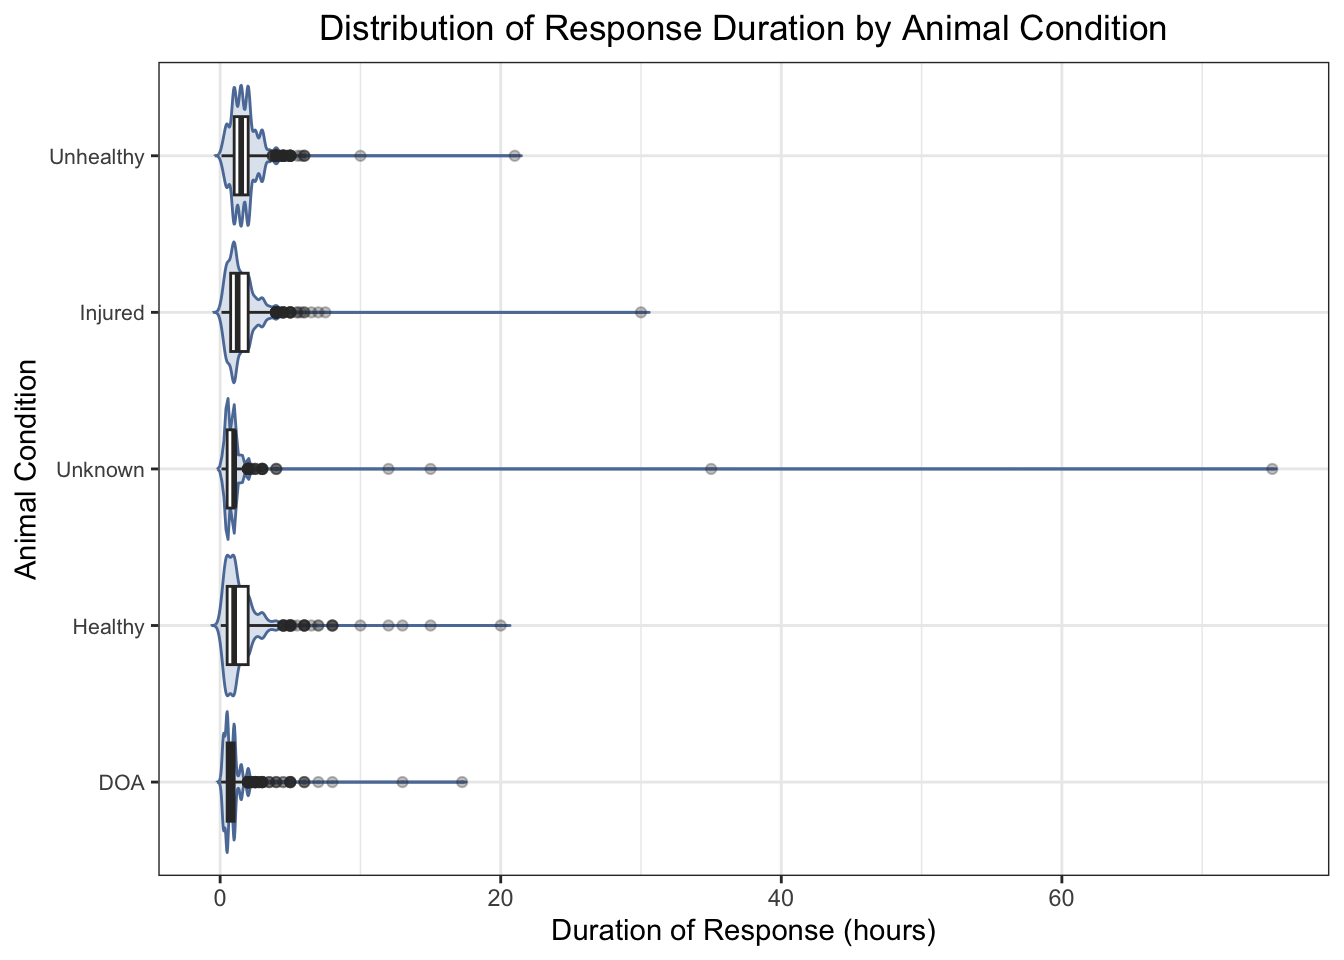
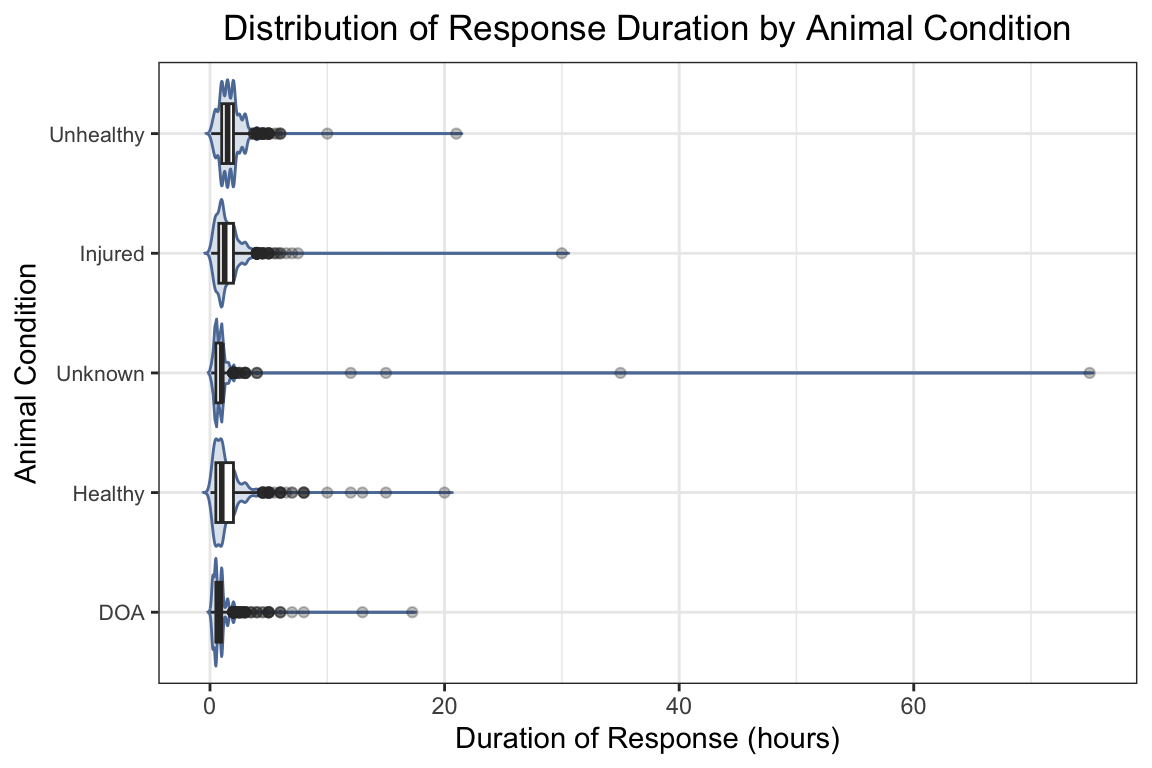
delete some duplicate content.

diff --git a/Project-Report.html b/Project-Report.html
@@ -730,9 +730,7 @@ greater than between-borough variation.</p>
   rename(num_animals = matches(&quot;animals&quot;)) |&gt;
   mutate(
     duration_hours      = as.numeric(duration_of_action),
-    num_animals         = as.numeric(num_animals),
-    final_ranger_action = as.factor(final_ranger_action),
-    animal_condition    = as.factor(animal_condition)
+    num_animals         = as.numeric(num_animals)
   ) |&gt;
   filter(
     !is.na(duration_hours),
@@ -752,31 +750,25 @@ class="section level2">
   arrange(med) |&gt;
   pull(final_ranger_action)
 
-park_model2 &lt;- park_model |&gt;
+park_model_action &lt;- park_model |&gt;
   mutate(final_ranger_action = factor(final_ranger_action, levels = action_order))
 
-ggplot(park_model2, aes(x = final_ranger_action, y = duration_hours)) +
-
-  # Violin plot
-  geom_violin(trim = FALSE, fill = &quot;#BFCDE0&quot;, color = &quot;#5D7CA6&quot;, alpha = 0.5, scale = &quot;width&quot;) +
-
-  # Boxplot
+ggplot(park_model_action, aes(x = final_ranger_action, y = duration_hours)) +
+  geom_violin(trim = FALSE, fill = &quot;#BFCDE0&quot;, color = &quot;#5D7CA6&quot;,
+              alpha = 0.5, scale = &quot;width&quot;) +
   geom_boxplot(width = 0.5, fill = &quot;white&quot;, outlier.alpha = 0.3) +
-
   coord_flip() +
-
   labs(
     title = &quot;Distribution of Response Duration by Final Ranger Action&quot;,
     x = &quot;Final Ranger Action (sorted by median duration)&quot;,
     y = &quot;Duration of Response (hours)&quot;
   ) +
-
   theme_bw() +
   theme(
     plot.title = element_text(hjust = 0.5),
     axis.text.y = element_text(size = 8)
   )</code></pre>
-<p><img src="Project-Report_files/figure-html/unnamed-chunk-8-1.png" width="672" /></p>
+<p><img src="Project-Report_files/figure-html/unnamed-chunk-8-1.png" width="672" style="display: block; margin: auto;" /></p>
 <p>The combined violin-and-boxplot visualization provides insight into
 how long Urban Park Rangers spend responding to different types of
 animal-related incidents.</p>
@@ -829,57 +821,32 @@ rehabilitation partners.</p>
 </div>
 <div id="response-duration-by-animal-condition" class="section level2">
 <h2>Response Duration by Animal Condition</h2>
-<pre class="r"><code>park_model &lt;- park_ranger_new |&gt;
-  rename(num_animals = matches(&quot;animals&quot;)) |&gt;
-  mutate(
-    duration_hours      = as.numeric(duration_of_action),
-    num_animals         = as.numeric(num_animals),
-
-    animal_condition    = as.character(animal_condition),
-    animal_condition    = ifelse(animal_condition == &quot;N/A&quot;, &quot;Unknown&quot;, animal_condition),
-
-    final_ranger_action = as.factor(final_ranger_action),
-    animal_condition    = as.factor(animal_condition)
-  ) |&gt;
-  filter(
-    !is.na(duration_hours),
-    duration_hours &gt; 0,
-    !is.na(final_ranger_action),
-    !is.na(animal_condition),
-    !is.na(num_animals),
-    num_animals &gt;= 0
-  )
-
-park_model2 &lt;- park_model |&gt;
+<pre class="r"><code>park_model_cond &lt;- park_model |&gt;
   mutate(
     animal_condition = fct_reorder(
       animal_condition,
       duration_hours,
       .fun = median,
-      na.rm = TRUE))
+      na.rm = TRUE
+    )
+  )
 
-ggplot(park_model2, aes(x = animal_condition, y = duration_hours)) +
-  # Violin layer
+ggplot(park_model_cond, aes(x = animal_condition, y = duration_hours)) +
   geom_violin(trim = FALSE, fill = &quot;#BFCDE0&quot;, color = &quot;#5D7CA6&quot;,
               alpha = 0.5, scale = &quot;width&quot;) +
-  
-  # Boxplot layer
   geom_boxplot(width = 0.5, fill = &quot;white&quot;, outlier.alpha = 0.3) +
-  
   coord_flip() +
-  
   labs(
     title = &quot;Distribution of Response Duration by Animal Condition&quot;,
     x = &quot;Animal Condition&quot;,
     y = &quot;Duration of Response (hours)&quot;
   ) +
-  
   theme_bw() +
   theme(
     plot.title = element_text(hjust = 0.5),
     axis.text.y = element_text(size = 8)
   )</code></pre>
-<p><img src="Project-Report_files/figure-html/unnamed-chunk-9-1.png" width="672" /></p>
+<p><img src="Project-Report_files/figure-html/unnamed-chunk-9-1.png" width="576" style="display: block; margin: auto;" /></p>
 <p>The violin-and-boxplot visualization shows how response time varies
 across different animal conditions.</p>
 <ol style="list-style-type: decimal">
@@ -917,7 +884,7 @@ procedures, or waiting for specialized disposal assistance.</p>
 <div id="distribution-of-response-duration-by-action-group"
 class="section level2">
 <h2>Distribution of Response Duration by Action Group</h2>
-<pre class="r"><code>park_model2 = park_model |&gt;
+<pre class="r"><code>park_model_group = park_model |&gt;
   mutate(
     action_group = if_else(
       final_ranger_action == &quot;Unfounded&quot;,
@@ -926,7 +893,7 @@ class="section level2">
     )
   )
 
-duration_mean = park_model2 |&gt;
+duration_mean = park_model_group |&gt;
   group_by(action_group) |&gt;
   summarise(
     mean_duration = mean(duration_hours, na.rm = TRUE),
@@ -959,7 +926,7 @@ duration_mean |&gt;
 </table>
 <div id="density-of-raw-response-duration" class="section level3">
 <h3>Density of Raw Response Duration</h3>
-<pre class="r"><code>ggplot(park_model2, aes(x = duration_hours,
+<pre class="r"><code>ggplot(park_model_group, aes(x = duration_hours,
                         fill  = action_group,
                         color = action_group)) +
   geom_density(alpha = 0.3, adjust = 1, linewidth = 1) +
@@ -990,8 +957,7 @@ density near zero.</p>
 <div id="density-of-log-transformed-response-duration"
 class="section level3">
 <h3>Density of Log-Transformed Response Duration</h3>
-<pre class="r"><code>park_model2_log = park_model2 |&gt;
-  filter(duration_hours &gt; 0) |&gt;
+<pre class="r"><code>park_model2_log = park_model_group |&gt;
   mutate(duration_log = log1p(duration_hours))  # log(1 + x)
 
 ggplot(park_model2_log,
@@ -1035,7 +1001,6 @@ time for assessment, handling, or coordination.</p>
 class="section level2">
 <h2>Final Ranger Actions by Animal Condition</h2>
 <pre class="r"><code>park_model4 &lt;- park_model |&gt;
-  filter(!is.na(animal_condition)) |&gt;
   filter(animal_condition %in% c(&quot;Healthy&quot;, &quot;Unhealthy&quot;, &quot;Injured&quot;, &quot;DOA&quot;))</code></pre>
 <pre class="r"><code>plot_condition_bar &lt;- function(data, cond, ymax) {
 
@@ -1788,10 +1753,9 @@ strong differences in response duration across action types.</p>
 = 0.000165), suggesting that the effect of action type depends on the
 condition of the animal.</p>
 </div>
-<div id="anova-using-log-transformed-duration" class="section level3">
-<h3>ANOVA Using Log-Transformed Duration</h3>
+<div id="using-log-transformed-duration" class="section level3">
+<h3>Using Log-Transformed Duration</h3>
 <pre class="r"><code>park_model2 = park_model |&gt;
-  filter(duration_hours &gt; 0) |&gt;
   mutate(log_duration = log(duration_hours))
 
 anova_fit_log = aov(
@@ -1882,7 +1846,7 @@ knitr::kable(
 plot(anova_fit_log, which = 1)  # Residuals vs Fitted
 plot(anova_fit_log, which = 2)  # Normal Q-Q</code></pre>
 <pre><code>## Warning: not plotting observations with leverage one:
-##   4660, 5064</code></pre>
+##   4660</code></pre>
 <p><img src="Project-Report_files/figure-html/unnamed-chunk-19-1.png" width="672" /></p>
 <pre class="r"><code>par(mfrow = c(1, 1))</code></pre>
 <p>Because response duration is highly right-skewed with many long-tail
